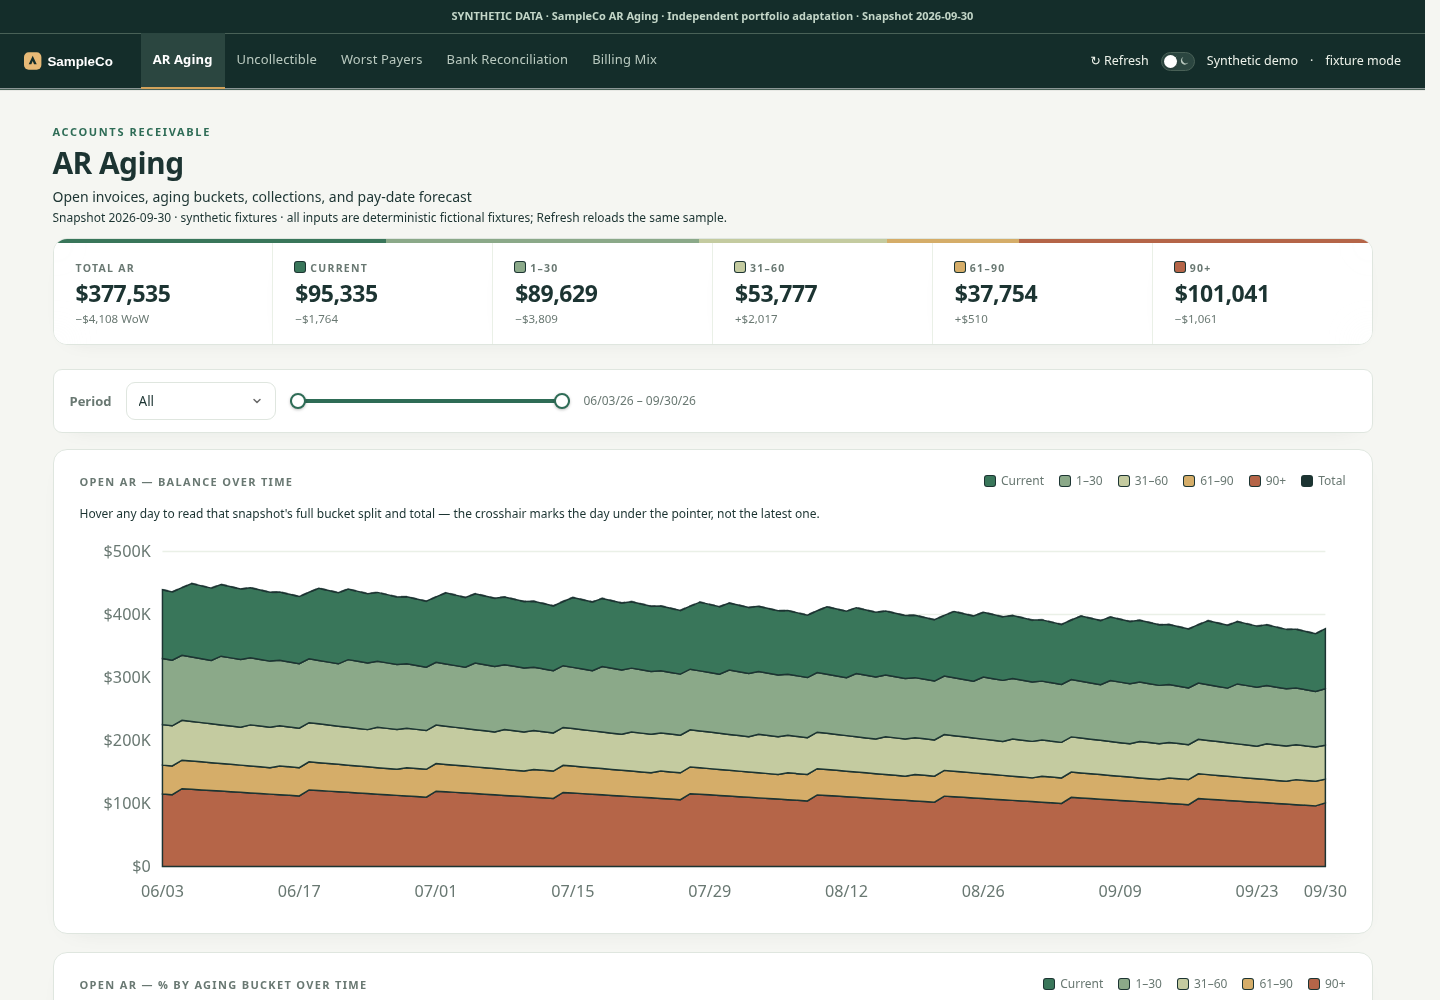
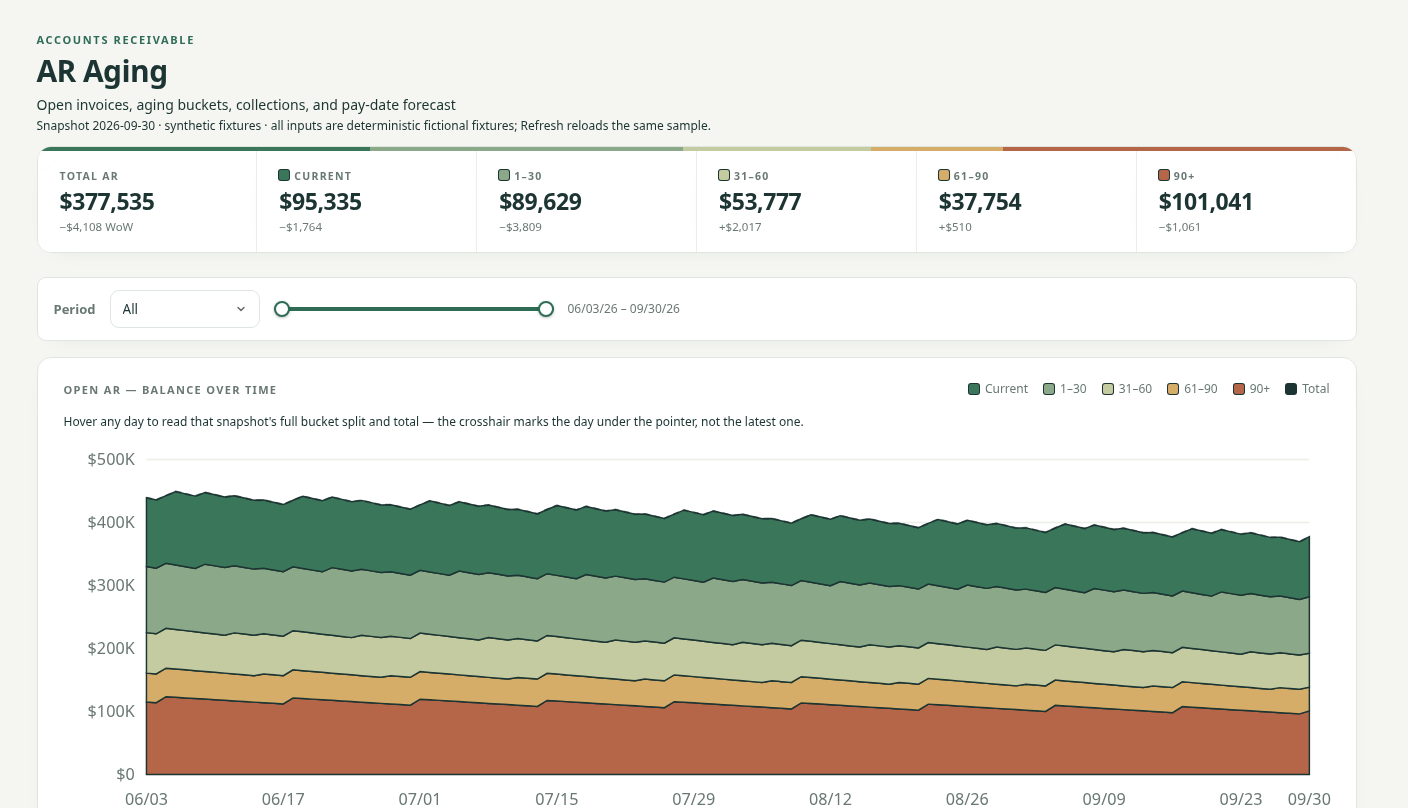
Redesign the site in the Ledger direction (#1)
Use ruled proof stats, cropped dashboard images on tinted cards, and a close-command strip. Apply the revised hero and About copy, and add the share card, canonical URL, and favicon.

diff --git a/index.html b/index.html
@@ -3,18 +3,31 @@
 <head>
 <meta charset="utf-8">
 <meta name="viewport" content="width=device-width, initial-scale=1">
-<title>Andrew Bushek · Finance &amp; the tools behind it</title>
-<meta name="description" content="Andrew Bushek, VP of Finance at Haystack. A finance leader who builds his own tools: cash forecasting, AR, unit economics, and planning.">
-<meta property="og:title" content="Andrew Bushek · Finance & the tools behind it">
-<meta property="og:description" content="Finance leader who builds his own tools.">
-<meta property="og:image" content="https://andrewbushek.github.io/img/cash-report.png">
+<title>Andrew Bushek · VP of Finance at Haystack</title>
+<meta name="description" content="VP of Finance at Haystack. I run a one-person finance team on software I built for cash, AR, commissions, the close, and revenue.">
+<link rel="canonical" href="https://andrewbushek.github.io/">
+<meta property="og:url" content="https://andrewbushek.github.io/">
+<meta property="og:type" content="website">
+<meta property="og:title" content="Andrew Bushek · VP of Finance at Haystack">
+<meta property="og:description" content="VP of Finance at Haystack. I run a one-person finance team on software I built for cash, AR, commissions, the close, and revenue.">
+<meta property="og:image" content="https://andrewbushek.github.io/img/share-card.png">
+<meta property="og:image:width" content="1200">
+<meta property="og:image:height" content="630">
+<meta property="og:image:alt" content="Andrew Bushek, VP of Finance at Haystack, beside a cash reporting dashboard.">
+<meta name="twitter:card" content="summary_large_image">
+<meta name="twitter:title" content="Andrew Bushek · VP of Finance at Haystack">
+<meta name="twitter:description" content="VP of Finance at Haystack. I run a one-person finance team on software I built for cash, AR, commissions, the close, and revenue.">
+<meta name="twitter:image" content="https://andrewbushek.github.io/img/share-card.png">
+<meta name="twitter:image:alt" content="Andrew Bushek, VP of Finance at Haystack, beside a cash reporting dashboard.">
+<link rel="icon" href="/img/favicon.png" type="image/png">
 <link rel="preconnect" href="https://fonts.googleapis.com">
 <link rel="preconnect" href="https://fonts.gstatic.com" crossorigin>
 <link href="https://fonts.googleapis.com/css2?family=Fraunces:opsz,wght@9..144,400;9..144,600&family=Inter:wght@400;500;600&display=swap" rel="stylesheet">
 <style>
   :root{
-    --ink:#16302b; --ink-2:#3d524d; --muted:#6b7c77; --line:#dfe4de;
-    --bg:#f5f4ef; --card:#ffffff; --accent:#2f6b4f; --gold:#c8963e;
+    --ink:#16302b; --ink-2:#3d524d; --muted:#6b7c77; --line:#dddcd4;
+    --bg:#f4f2ec; --card:#ffffff; --accent:#2a6848; --gold:#8d6d32;
+    --well:#e5eee4;
   }
   *{box-sizing:border-box}
   html{scroll-behavior:smooth}
@@ -22,26 +35,29 @@
   a{color:inherit}
   .wrap{max-width:1080px;margin:0 auto;padding:0 24px}
 
-  header.top{display:flex;justify-content:space-between;align-items:center;padding:28px 0}
-  .mark{font-family:Fraunces,serif;font-weight:600;font-size:20px;text-decoration:none;letter-spacing:-.01em}
-  .mark span{color:var(--gold)}
-  nav a{margin-left:22px;text-decoration:none;color:var(--ink-2);font-size:14px;font-weight:500}
+  header.top{display:flex;justify-content:space-between;align-items:flex-start;gap:16px;padding:26px 0 8px}
+  .mark{font-family:Fraunces,serif;font-weight:600;font-size:20px;text-decoration:none;letter-spacing:-.01em;flex:none;padding-top:1px}
+  nav{flex:1;min-width:0;text-align:right;font-size:14px;line-height:1.45}
+  nav a{display:inline-block;text-decoration:none;color:var(--ink-2);font-weight:500}
   nav a:hover{color:var(--ink)}
+  nav .sep{display:inline-block;color:var(--muted);margin:0 .35em}
+  a:focus-visible,.btn:focus-visible{outline:2px solid var(--accent);outline-offset:3px}
 
-  .hero{padding:72px 0 64px;border-bottom:1px solid var(--line)}
-  .eyebrow{font-size:12px;letter-spacing:.14em;text-transform:uppercase;color:var(--accent);font-weight:600;margin:0 0 18px}
-  h1{font-family:Fraunces,serif;font-weight:400;font-size:clamp(36px,6vw,64px);line-height:1.05;letter-spacing:-.025em;margin:0 0 24px;max-width:15ch}
-  h1 em{font-style:italic;color:var(--accent)}
-  .lede{font-size:19px;color:var(--ink-2);max-width:60ch;margin:0 0 32px}
-  .cta{display:flex;gap:12px;flex-wrap:wrap}
-  .btn{display:inline-block;padding:11px 18px;border-radius:8px;text-decoration:none;font-weight:500;font-size:15px;border:1px solid var(--ink)}
+  .hero{padding:56px 0 8px}
+  .eyebrow{font-size:12px;letter-spacing:.16em;text-transform:uppercase;color:var(--accent);font-weight:600;margin:0 0 18px}
+  h1{font-family:Fraunces,serif;font-weight:400;font-size:clamp(32px,4.7vw,58px);line-height:1.08;letter-spacing:-.028em;margin:0 0 22px;max-width:16.4em}
+  .lede{font-size:18.5px;line-height:1.55;color:var(--ink-2);max-width:46rem;margin:0 0 28px}
+  .cta{display:flex;gap:12px;flex-wrap:wrap;align-items:center}
+  .btn{display:inline-block;padding:11px 20px;border-radius:999px;text-decoration:none;font-weight:500;font-size:15px;border:1px solid var(--ink);background:transparent}
   .btn.primary{background:var(--ink);color:#fff}
   .btn:hover{transform:translateY(-1px)}
 
-  .stats{display:grid;grid-template-columns:repeat(4,1fr);gap:24px;margin-top:48px;padding-top:28px;border-top:1px solid var(--line)}
-  .stats b{display:block;font-family:Fraunces,serif;font-weight:600;font-size:34px;letter-spacing:-.02em;color:var(--accent)}
-  .stats span{font-size:14px;color:var(--muted)}
-  @media (max-width:900px){.stats{grid-template-columns:repeat(2,1fr);gap:20px}}
+  .stats{display:grid;grid-template-columns:repeat(3,1fr);margin:48px 0 8px;border-top:1px solid var(--line);border-bottom:1px solid var(--line)}
+  .stat{padding:26px 28px 26px 0}
+  .stat+.stat{border-left:1px solid var(--line);padding-left:28px}
+  .stat b{display:block;font-family:Fraunces,serif;font-weight:600;font-size:clamp(32px,3.6vw,44px);line-height:1.05;letter-spacing:-.03em;color:var(--accent)}
+  .stat b em{font-style:normal;font-weight:500;font-size:.46em;letter-spacing:0;margin-left:.15em;white-space:nowrap}
+  .stat span{display:block;margin-top:8px;font-size:14.5px;line-height:1.45;color:var(--muted);max-width:32ch}
 
   .flow{display:flex;align-items:center;gap:0;margin:0 0 36px}
   .node{flex:1;background:var(--card);border:1px solid var(--line);border-radius:12px;padding:14px 16px}
@@ -52,7 +68,7 @@
   .wire i{position:absolute;top:-2px;width:6px;height:6px;border-radius:50%;background:var(--accent);animation:flow 2.4s linear infinite}
   .wire i:nth-child(2){animation-delay:.8s}.wire i:nth-child(3){animation-delay:1.6s}
   @keyframes flow{from{left:-6px}to{left:56px}}
-  @media (prefers-reduced-motion:reduce){.wire i{animation:none;left:25px}}
+  @media (prefers-reduced-motion:reduce){.wire i{animation:none;left:25px}.card,.btn{transition:none}.card:hover,.btn:hover{transform:none}}
 
   .sys{display:grid;grid-template-columns:repeat(2,1fr);gap:28px}
   .sx{background:var(--card);border:1px solid var(--line);border-radius:14px;padding:18px 18px 22px}
@@ -129,22 +145,19 @@
   h2{font-family:Fraunces,serif;font-weight:400;font-size:32px;letter-spacing:-.015em;margin:0 0 8px}
   .sub{color:var(--muted);margin:0 0 40px}
 
-  .grid{display:grid;grid-template-columns:repeat(2,1fr);gap:28px}
-  .card{background:var(--card);border:1px solid var(--line);border-radius:14px;overflow:hidden;display:flex;flex-direction:column;transition:box-shadow .2s, transform .2s}
-  .card:hover{box-shadow:0 10px 30px rgba(22,48,43,.08);transform:translateY(-2px)}
-  .card.wide{grid-column:span 2;flex-direction:row}
-  .shot{aspect-ratio:16/10;overflow:hidden;background:#e9ece6;border-bottom:1px solid var(--line)}
-  .card.wide .shot{flex:1.3;aspect-ratio:auto;border-bottom:0;border-right:1px solid var(--line)}
-  .shot img{width:100%;height:100%;object-fit:cover;object-position:top left;display:block}
-  .body{padding:22px 24px 24px;flex:1;display:flex;flex-direction:column}
-  .card.wide .body{flex:1;justify-content:center;padding:32px}
-  .tag{font-size:11px;letter-spacing:.12em;text-transform:uppercase;color:var(--accent);font-weight:600}
-  .card h3{font-family:Fraunces,serif;font-weight:600;font-size:22px;margin:6px 0 8px;letter-spacing:-.01em}
+  .grid{display:grid;grid-template-columns:repeat(2,1fr);gap:28px;align-items:start}
+  .card{background:var(--well);border:1px solid #d5e0d6;border-radius:18px;display:flex;flex-direction:column;padding:14px 14px 0;box-shadow:0 1px 2px rgba(22,48,43,.04);transition:box-shadow .2s, transform .2s}
+  .card:hover{box-shadow:0 12px 32px rgba(22,48,43,.08);transform:translateY(-2px)}
+  .shot{background:transparent}
+  .shot img{width:100%;height:auto;display:block;border-radius:10px;background:#fff;border:1px solid rgba(22,48,43,.06);box-shadow:0 14px 32px rgba(22,48,43,.14),0 2px 6px rgba(22,48,43,.06)}
+  .body{background:#fff;margin:16px -14px 0;padding:18px 22px 20px;border-radius:0 0 17px 17px;border-top:1px solid rgba(22,48,43,.06);display:flex;flex-direction:column;flex:1}
+  .tag{font-size:11px;letter-spacing:.14em;text-transform:uppercase;color:var(--gold);font-weight:600}
+  .card h3{font-family:Fraunces,serif;font-weight:600;font-size:22px;margin:6px 0 8px;letter-spacing:-.015em}
   .q{color:var(--ink-2);margin:0 0 14px}
   .card ul{margin:0 0 16px;padding-left:18px;color:var(--muted);font-size:14.5px}
   .card ul li{margin-bottom:4px}
-  .link{margin-top:auto;font-weight:500;font-size:14.5px;text-decoration:none;color:var(--accent)}
-  .link:hover{text-decoration:underline}
+  .link{margin-top:auto;font-weight:500;font-size:14.5px;text-decoration:none;color:var(--ink)}
+  .link:hover{color:var(--accent)}
   .note{font-size:13px;color:var(--muted);margin-top:24px}
 
   .about{display:grid;grid-template-columns:1fr 1.1fr;gap:56px;border-top:1px solid var(--line)}
@@ -168,37 +181,63 @@
   footer{border-top:1px solid var(--line);padding:40px 0 56px;display:flex;justify-content:space-between;flex-wrap:wrap;gap:16px;color:var(--muted);font-size:14px}
   footer a{margin-right:18px;color:var(--ink);text-decoration:none;font-weight:500}
 
+  .term{background:var(--ink);color:#e7f0ea;border-radius:14px;padding:16px 18px 14px;margin:0 0 36px;box-shadow:0 16px 36px rgba(22,48,43,.12);font-family:ui-monospace,SFMono-Regular,Menlo,Consolas,monospace;font-size:13.5px;line-height:1.65}
+  .term-bar{display:flex;align-items:center;gap:8px;margin-bottom:10px;color:#b7c7bf;font-size:12px;letter-spacing:.04em}
+  .term-bar i{width:8px;height:8px;border-radius:50%;background:#31584a;display:block}
+  .term-bar i:first-child{background:#c8963e}
+  .term .dots{display:flex;gap:5px}
+  .term .cmd{margin:0 0 8px;color:#f4faf6}
+  .term .prompt{color:#e2c27a;margin-right:6px}
+  .term ul{list-style:none;margin:0;padding:8px 0 0;border-top:1px solid rgba(231,240,234,.14)}
+  .term li{display:flex;align-items:baseline;gap:10px;padding:3px 0}
+  .term .ok{color:#8dceab;width:1.6em;flex:none}
+  .term .k{color:#d5e4dc}
+  .term .lead{flex:1;border-bottom:1px dotted rgba(231,240,234,.35);transform:translateY(-4px);min-width:12px}
+  .term .v{color:#f4faf6;text-align:right}
+  .term .dim{color:#9eb0a8}
+
+  @media (min-width:760px){
+    nav{white-space:nowrap}
+    header.top{align-items:baseline}
+  }
   @media (max-width:760px){
     .grid{grid-template-columns:1fr}
-    .card.wide{grid-column:auto;flex-direction:column}
-    .card.wide .shot{aspect-ratio:16/10;border-right:0;border-bottom:1px solid var(--line)}
     .about{grid-template-columns:1fr;gap:32px}
-    nav a{margin-left:14px}
-    .hero{padding:40px 0 48px}
-    section{padding:56px 0}
+    .hero{padding:28px 0 0}
+    section{padding:48px 0}
+    h1{font-size:clamp(30px,8.4vw,40px)}
+    .wrap{padding:0 20px}
+    nav{font-size:13.5px;line-height:1.45;padding-top:3px}
+    .stat{padding:18px 0}
+    .stats{grid-template-columns:1fr;margin-top:32px}
+    .stat+.stat{border-left:0;border-top:1px solid var(--line);padding-left:0}
+    .term{font-size:12.5px;padding:14px 14px 12px}
+    .term li{flex-wrap:wrap;row-gap:0}
+    .term .lead{display:none}
+    .term .v{flex:1 0 calc(100% - 2.4em);margin-left:2.4em;text-align:left}
+    .lede{font-size:16.5px}
   }
 </style>
 </head>
 <body>
 <div class="wrap">
   <header class="top">
-    <a class="mark" href="#">Andrew Bushek<span>.</span></a>
-    <nav><a href="#work">Work</a><a href="#systems">Systems</a><a href="#about">About</a><a href="#contact">Contact</a></nav>
+    <a class="mark" href="#">Andrew Bushek</a>
+    <nav aria-label="Page"><a href="#work">Work</a><span class="sep" aria-hidden="true">·</span><a href="#systems">Systems</a><span class="sep" aria-hidden="true">·</span><a href="#about">About</a><span class="sep" aria-hidden="true">·</span><a href="#contact">Contact</a></nav>
   </header>
 
   <div class="hero">
-    <p class="eyebrow">VP, Finance · Haystack</p>
-    <h1>Finance leader who builds <em>his own tools.</em></h1>
-    <p class="lede">I run finance, accounting, and operations as a one-person team at a PE-backed SaaS company, and I build the systems that make that possible: receivables, cash, commissions, and revenue analytics, written with Claude Code and running on BigQuery.</p>
+    <p class="eyebrow">VP of Finance · Haystack</p>
+    <h1>I run finance operations and write the software behind them, so I spend my time on strategy, not spreadsheets.</h1>
+    <p class="lede">I run finance, accounting, and operations at a PE-backed SaaS company. Receivables, cash, commissions, the close, and revenue reporting run on BigQuery and dbt, and I built them with Claude Code. Journal entries post in 2 days. Before, they took 11 to 15.</p>
     <div class="cta">
       <a class="btn primary" href="#work">See the work</a>
-      <a class="btn" href="https://andrewbushek.github.io/household-finance-demo/">Try a live demo</a>
+      <a class="btn" href="https://andrewbushek.github.io/household-finance-demo/">Try the live demo</a>
     </div>
     <div class="stats">
-      <div><b>2 days</b><span>median journal-entry posting, down from 11–15 after bringing the close in-house</span></div>
-      <div><b>1,800+</b><span>commits since April 2026, building Haystack's finance &amp; data systems</span></div>
-      <div><b>+$100K</b><span>monthly cash flow at Hearth, turned around from $1.5M of monthly burn</span></div>
-      <div><b>$23M</b><span>Series B at Hearth; led the financial modeling</span></div>
+      <div class="stat"><b>2 days</b><span>Median journal-entry posting, down from 11 to 15.</span></div>
+      <div class="stat"><b>+$100K <em>a month</em></b><span>Cash flow at Hearth, up from $1.5M of monthly burn.</span></div>
+      <div class="stat"><b>$23M</b><span>The Hearth Series B. I built the model.</span></div>
     </div>
   </div>
 
@@ -207,8 +246,8 @@
     <p class="sub">Walkthroughs of tools I've built. Every company, person, and figure shown is fictional.</p>
 
     <div class="grid">
-      <article class="card wide">
-        <div class="shot"><img src="img/cash-report.png" alt="Cash reporting dashboard with inflows, outflows, and account balances, using fictional data" loading="lazy"></div>
+      <article class="card">
+        <div class="shot"><img src="img/cash-report.png" alt="Cash report summary: cash in, cash out, net change, account balances, and a bar chart of where cash sits. Fictional data." width="1408" height="616"></div>
         <div class="body">
           <span class="tag">Treasury</span>
           <h3>Cash reporting &amp; 13-week forecast</h3>
@@ -223,7 +262,7 @@
       </article>
 
       <article class="card">
-        <div class="shot"><img src="img/ar-aging.png" alt="AR aging dashboard with invoice-age buckets, using fictional data" loading="lazy"></div>
+        <div class="shot"><img src="img/ar-aging.png" alt="AR aging summary by bucket and a stacked chart of open balance over time. Fictional data." width="1408" height="808" loading="lazy"></div>
         <div class="body">
           <span class="tag">Receivables</span>
           <h3>AR aging</h3>
@@ -233,7 +272,7 @@
       </article>
 
       <article class="card">
-        <div class="shot"><img src="img/ltv-cac.png" alt="LTV and CAC working-papers dashboard, using fictional data" loading="lazy"></div>
+        <div class="shot"><img src="img/ltv-cac.png" alt="Adjusted CAC summary: acquisition cost, LTV to CAC, in-month CAC, payback, and new customers. Fictional data." width="1168" height="508" loading="lazy"></div>
         <div class="body">
           <span class="tag">Unit economics</span>
           <h3>LTV / CAC working papers</h3>
@@ -243,7 +282,7 @@
       </article>
 
       <article class="card">
-        <div class="shot"><img src="img/planning-departments.jpg" alt="Monthly department budget grid with fictional allocations" loading="lazy"></div>
+        <div class="shot"><img src="img/planning-departments.png" alt="Engineering department budget: annual spend summary and the monthly planning grid. Fictional data." width="1424" height="728" loading="lazy"></div>
         <div class="body">
           <span class="tag">Planning · AI</span>
           <h3>Team planning with an MCP assistant</h3>
@@ -253,7 +292,7 @@
       </article>
 
       <article class="card">
-        <div class="shot"><img src="img/household-desktop.png" alt="Household finance overview with shared expenses and an income-based split, fictional household" loading="lazy"></div>
+        <div class="shot"><img src="img/household-desktop.png" alt="Household overview with shared spending, what is left in the monthly plan, and the balance between two people. Fictional household." width="1168" height="664" loading="lazy"></div>
         <div class="body">
           <span class="tag">Live demo</span>
           <h3>Household finance</h3>
@@ -268,6 +307,19 @@
   <section id="systems" style="border-top:1px solid var(--line)">
     <h2>Under the hood</h2>
     <p class="sub">What runs every day so a one-person finance team can close in two days. Every name and number below is fictional; the mechanics are real.</p>
+
+    <div class="term" role="figure" aria-label="A close command printing the month's results">
+      <div class="term-bar"><span class="dots" aria-hidden="true"><i></i><i></i><i></i></span><span>haystack-finance — close</span></div>
+      <p class="cmd"><span class="prompt">$</span>close --month 2026-10</p>
+      <ul>
+        <li><span class="ok">ok</span><span class="k">cash matching</span><span class="lead" aria-hidden="true"></span><span class="v">queued for approval</span></li>
+        <li><span class="ok">ok</span><span class="k">commissions</span><span class="lead" aria-hidden="true"></span><span class="v">same day</span></li>
+        <li><span class="ok">ok</span><span class="k">consolidation</span><span class="lead" aria-hidden="true"></span><span class="v">3 entities, ties to GL</span></li>
+        <li><span class="ok">ok</span><span class="k">journal entries</span><span class="lead" aria-hidden="true"></span><span class="v">96% by day 3</span></li>
+        <li><span class="ok">ok</span><span class="k">revenue</span><span class="lead" aria-hidden="true"></span><span class="v">traces to Stripe</span></li>
+        <li><span class="ok dim">→</span><span class="k">median posting</span><span class="lead" aria-hidden="true"></span><span class="v">2 days <span class="dim">was 11–15</span></span></li>
+      </ul>
+    </div>
 
     <div class="flow" aria-label="Data flows from source systems into the warehouse and out to automations">
       <div class="node"><small>Sources</small><b>QuickBooks · Stripe · HubSpot · Mercury · Gong</b></div>
@@ -410,9 +462,9 @@
   <section id="about" class="about">
     <div>
       <h2>About</h2>
-      <p>I started in investment banking at J.P. Morgan after a JD/MBA at Emory, then spent the next several years running finance at venture- and PE-backed software and fintech companies.</p>
-      <p>At Hearth I went from finance associate to VP of Finance, helped turn $1.5M of monthly burn into positive cash flow, and led the modeling for a $23M Series B. At TradeCentric I ran strategic finance for a $20M ARR business and cut commission processing from five days to same-day.</p>
-      <p>Today I'm VP of Finance at Haystack, the only person in finance, accounting, and operations. I build the tools that make that work: QuickBooks, Stripe, HubSpot, and Mercury consolidated in BigQuery across three entities, with a close that books 96% of entries by day three.</p>
+      <p>I started in investment banking at J.P. Morgan after a JD/MBA at Emory. Since then I have run finance at venture- and PE-backed software and fintech companies.</p>
+      <p>At Hearth I went from finance associate to VP of Finance. We took the company from $1.5M of monthly burn to positive cash flow, and I built the model for the $23M Series B. At TradeCentric I ran strategic finance for a $20M ARR business. I cut commission processing from five days to same-day.</p>
+      <p>At Haystack I am the whole finance function. QuickBooks, Stripe, HubSpot, and Mercury feed one BigQuery warehouse across three entities. I book 96% of entries by day three. I work in English and Spanish.</p>
     </div>
     <ol class="timeline">
       <li><div class="role">VP, Finance</div><div class="org">Haystack · 2026–present</div></li>
